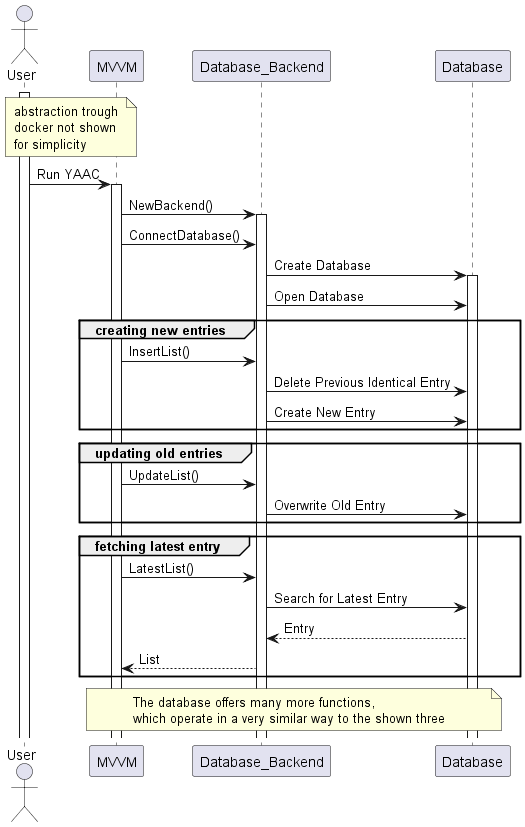
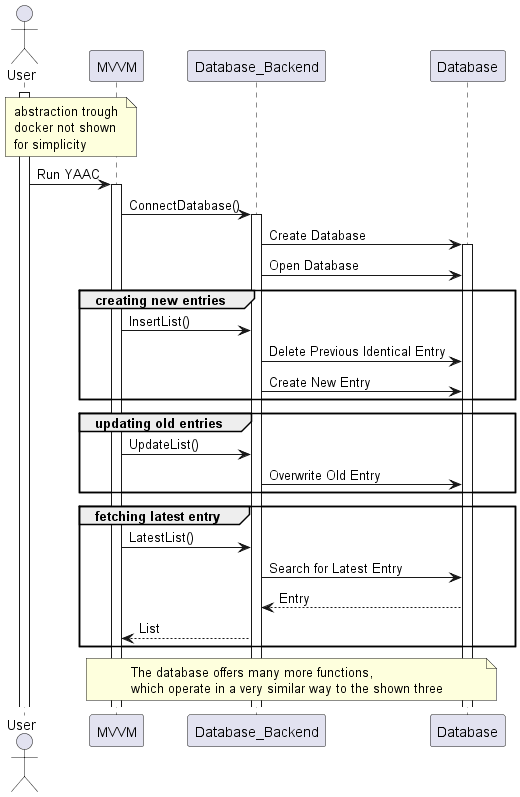
diagram for uploading lists

diff --git a/Diagrams/Sequence_Diagrams/Sequence_Diagrams.md b/Diagrams/Sequence_Diagrams/Sequence_Diagrams.md
@@ -14,3 +14,6 @@ Creating sequence diagrams with PlantUML is remarkably straightforward. This eas
 
 ## Using the Database
 ![](Database.png)
+
+## Uploading Attendance-Lists manually
+![](Adding_Lists_Manually.png)
